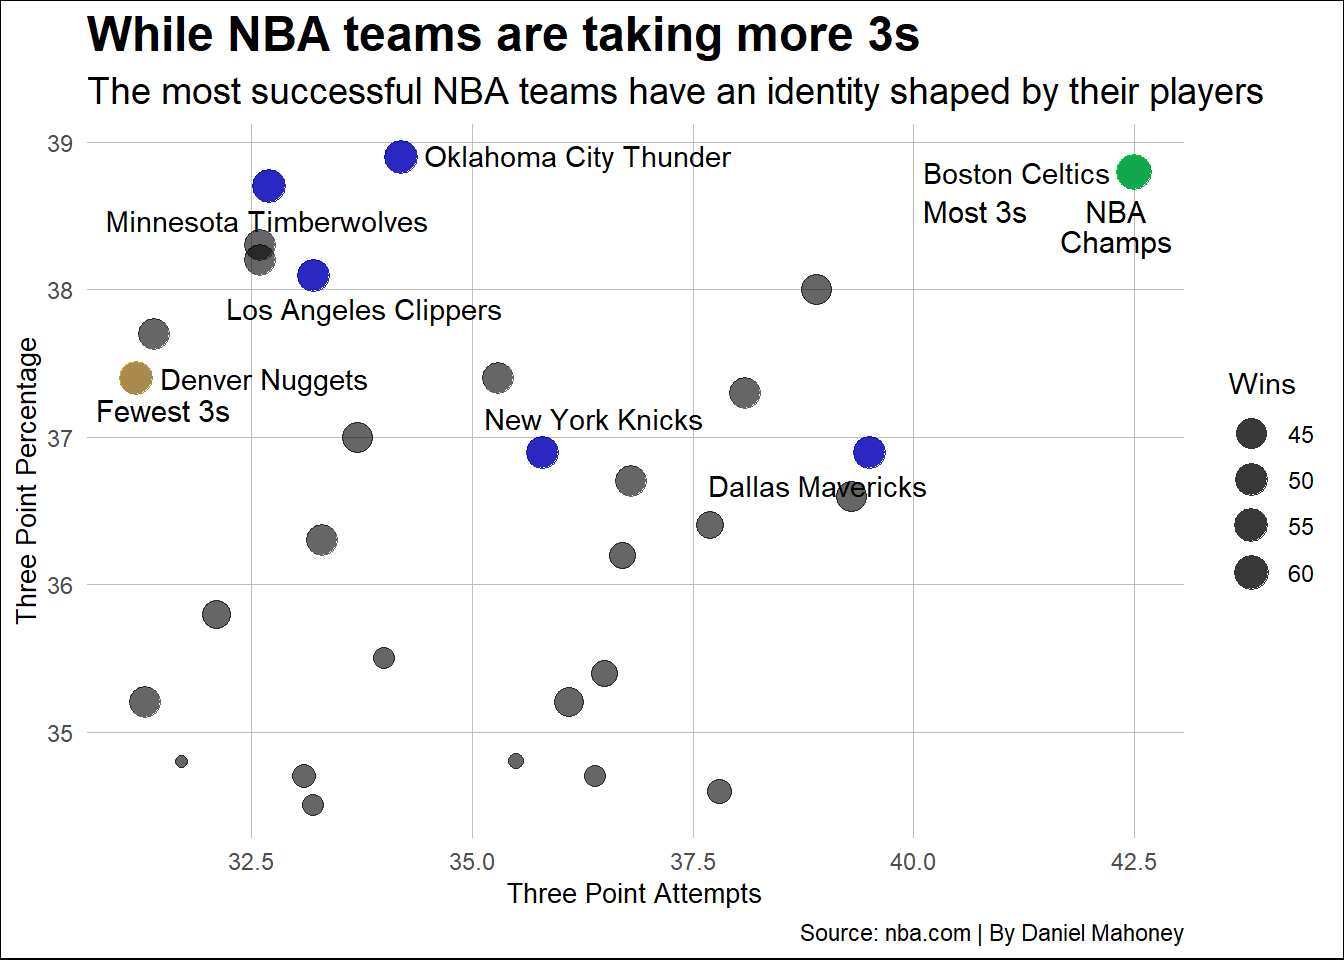
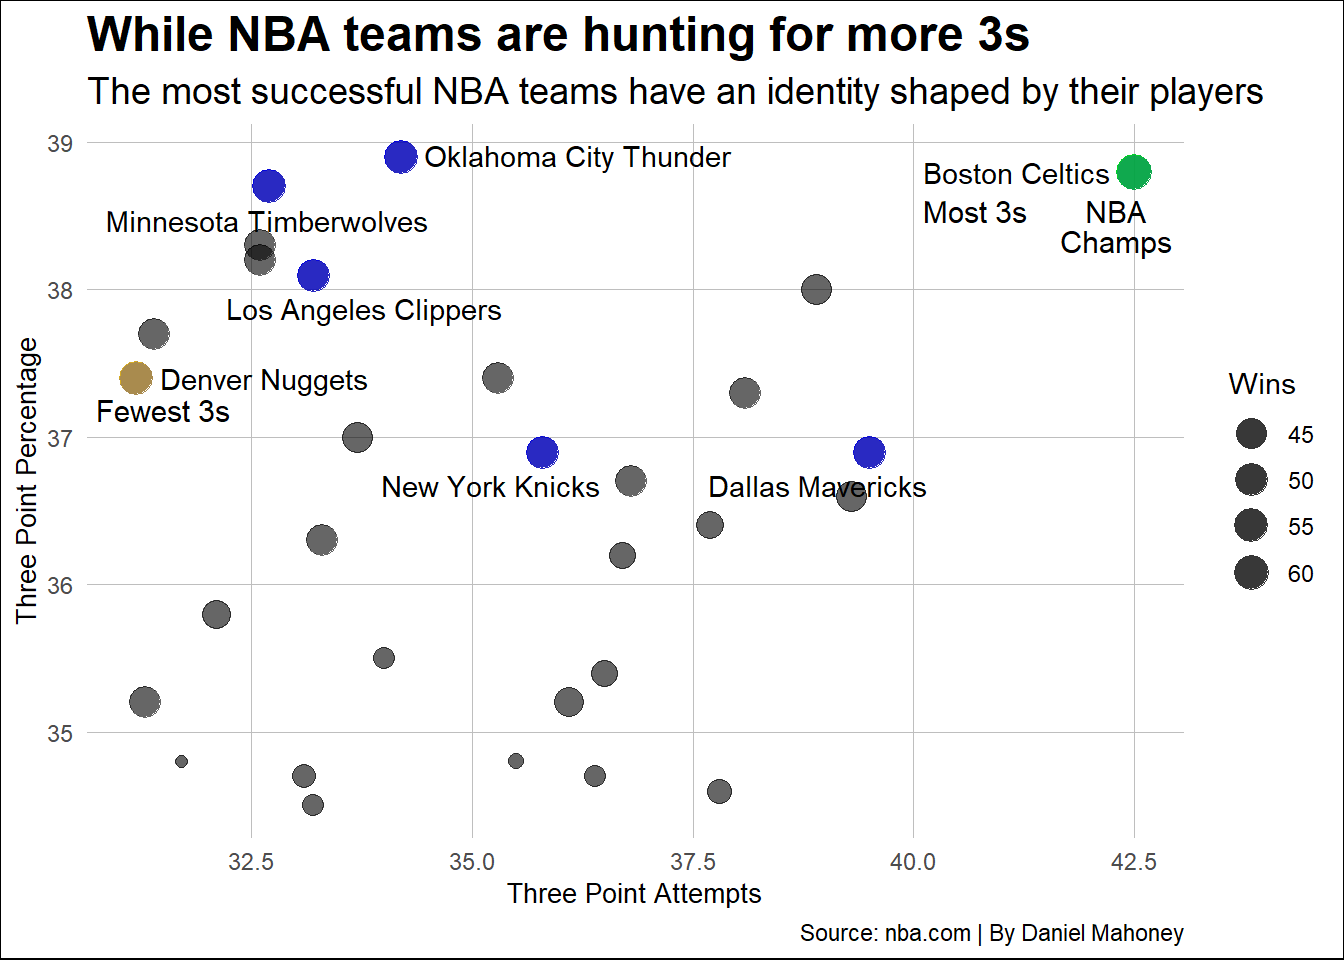
update index.html

Changed region(s): [[0.4375, 0.0, 0.7812, 0.0625], [0.375, 0.4062, 0.5312, 0.4688], [0.2812, 0.5, 0.4375, 0.5312]]

diff --git a/posts/three-point-revolution/index.html b/posts/three-point-revolution/index.html
@@ -486,7 +486,7 @@ pre > code.sourceCode > span > a:first-child::before { text-decoration: underlin
 <span id="cb3-63"><a href="#cb3-63" aria-hidden="true" tabindex="-1"></a>  <span class="fu">labs</span>(</span>
 <span id="cb3-64"><a href="#cb3-64" aria-hidden="true" tabindex="-1"></a>    <span class="at">x =</span> <span class="st">"Three Point Attempts"</span>,</span>
 <span id="cb3-65"><a href="#cb3-65" aria-hidden="true" tabindex="-1"></a>    <span class="at">y =</span> <span class="st">"Three Point Percentage"</span>,</span>
-<span id="cb3-66"><a href="#cb3-66" aria-hidden="true" tabindex="-1"></a>    <span class="at">title =</span> <span class="st">"While NBA teams are taking more 3s"</span>,</span>
+<span id="cb3-66"><a href="#cb3-66" aria-hidden="true" tabindex="-1"></a>    <span class="at">title =</span> <span class="st">"While NBA teams are hunting for more 3s"</span>,</span>
 <span id="cb3-67"><a href="#cb3-67" aria-hidden="true" tabindex="-1"></a>    <span class="at">subtitle =</span> <span class="st">"The most successful NBA teams have an identity shaped by their players"</span>,</span>
 <span id="cb3-68"><a href="#cb3-68" aria-hidden="true" tabindex="-1"></a>    <span class="at">caption =</span> <span class="st">"Source: nba.com | By Daniel Mahoney"</span>,</span>
 <span id="cb3-69"><a href="#cb3-69" aria-hidden="true" tabindex="-1"></a>    <span class="at">size =</span> <span class="st">"Wins"</span></span>

diff --git a/index.html b/index.html
@@ -205,7 +205,7 @@ window.Quarto = {
 
 <div class="quarto-listing quarto-listing-container-default" id="listing-listing">
 <div class="list quarto-listing-default">
-<div class="quarto-post image-right" data-index="0" data-categories="YmFza2V0YmFsbCxuYmEsc3RlcGg=" data-listing-date-sort="1733205600000" data-listing-file-modified-sort="1733721078953" data-listing-date-modified-sort="NaN" data-listing-reading-time-sort="16" data-listing-word-count-sort="3023">
+<div class="quarto-post image-right" data-index="0" data-categories="YmFza2V0YmFsbCxuYmEsc3RlcGg=" data-listing-date-sort="1733205600000" data-listing-file-modified-sort="1733721577140" data-listing-date-modified-sort="NaN" data-listing-reading-time-sort="16" data-listing-word-count-sort="3024">
 <div class="thumbnail">
 <p><a href="./posts/three-point-revolution/index.html" class="no-external"></a></p><a href="./posts/three-point-revolution/index.html" class="no-external">
 <p><img loading="lazy" src="./posts/three-point-revolution/image.png" class="thumbnail-image"></p>
